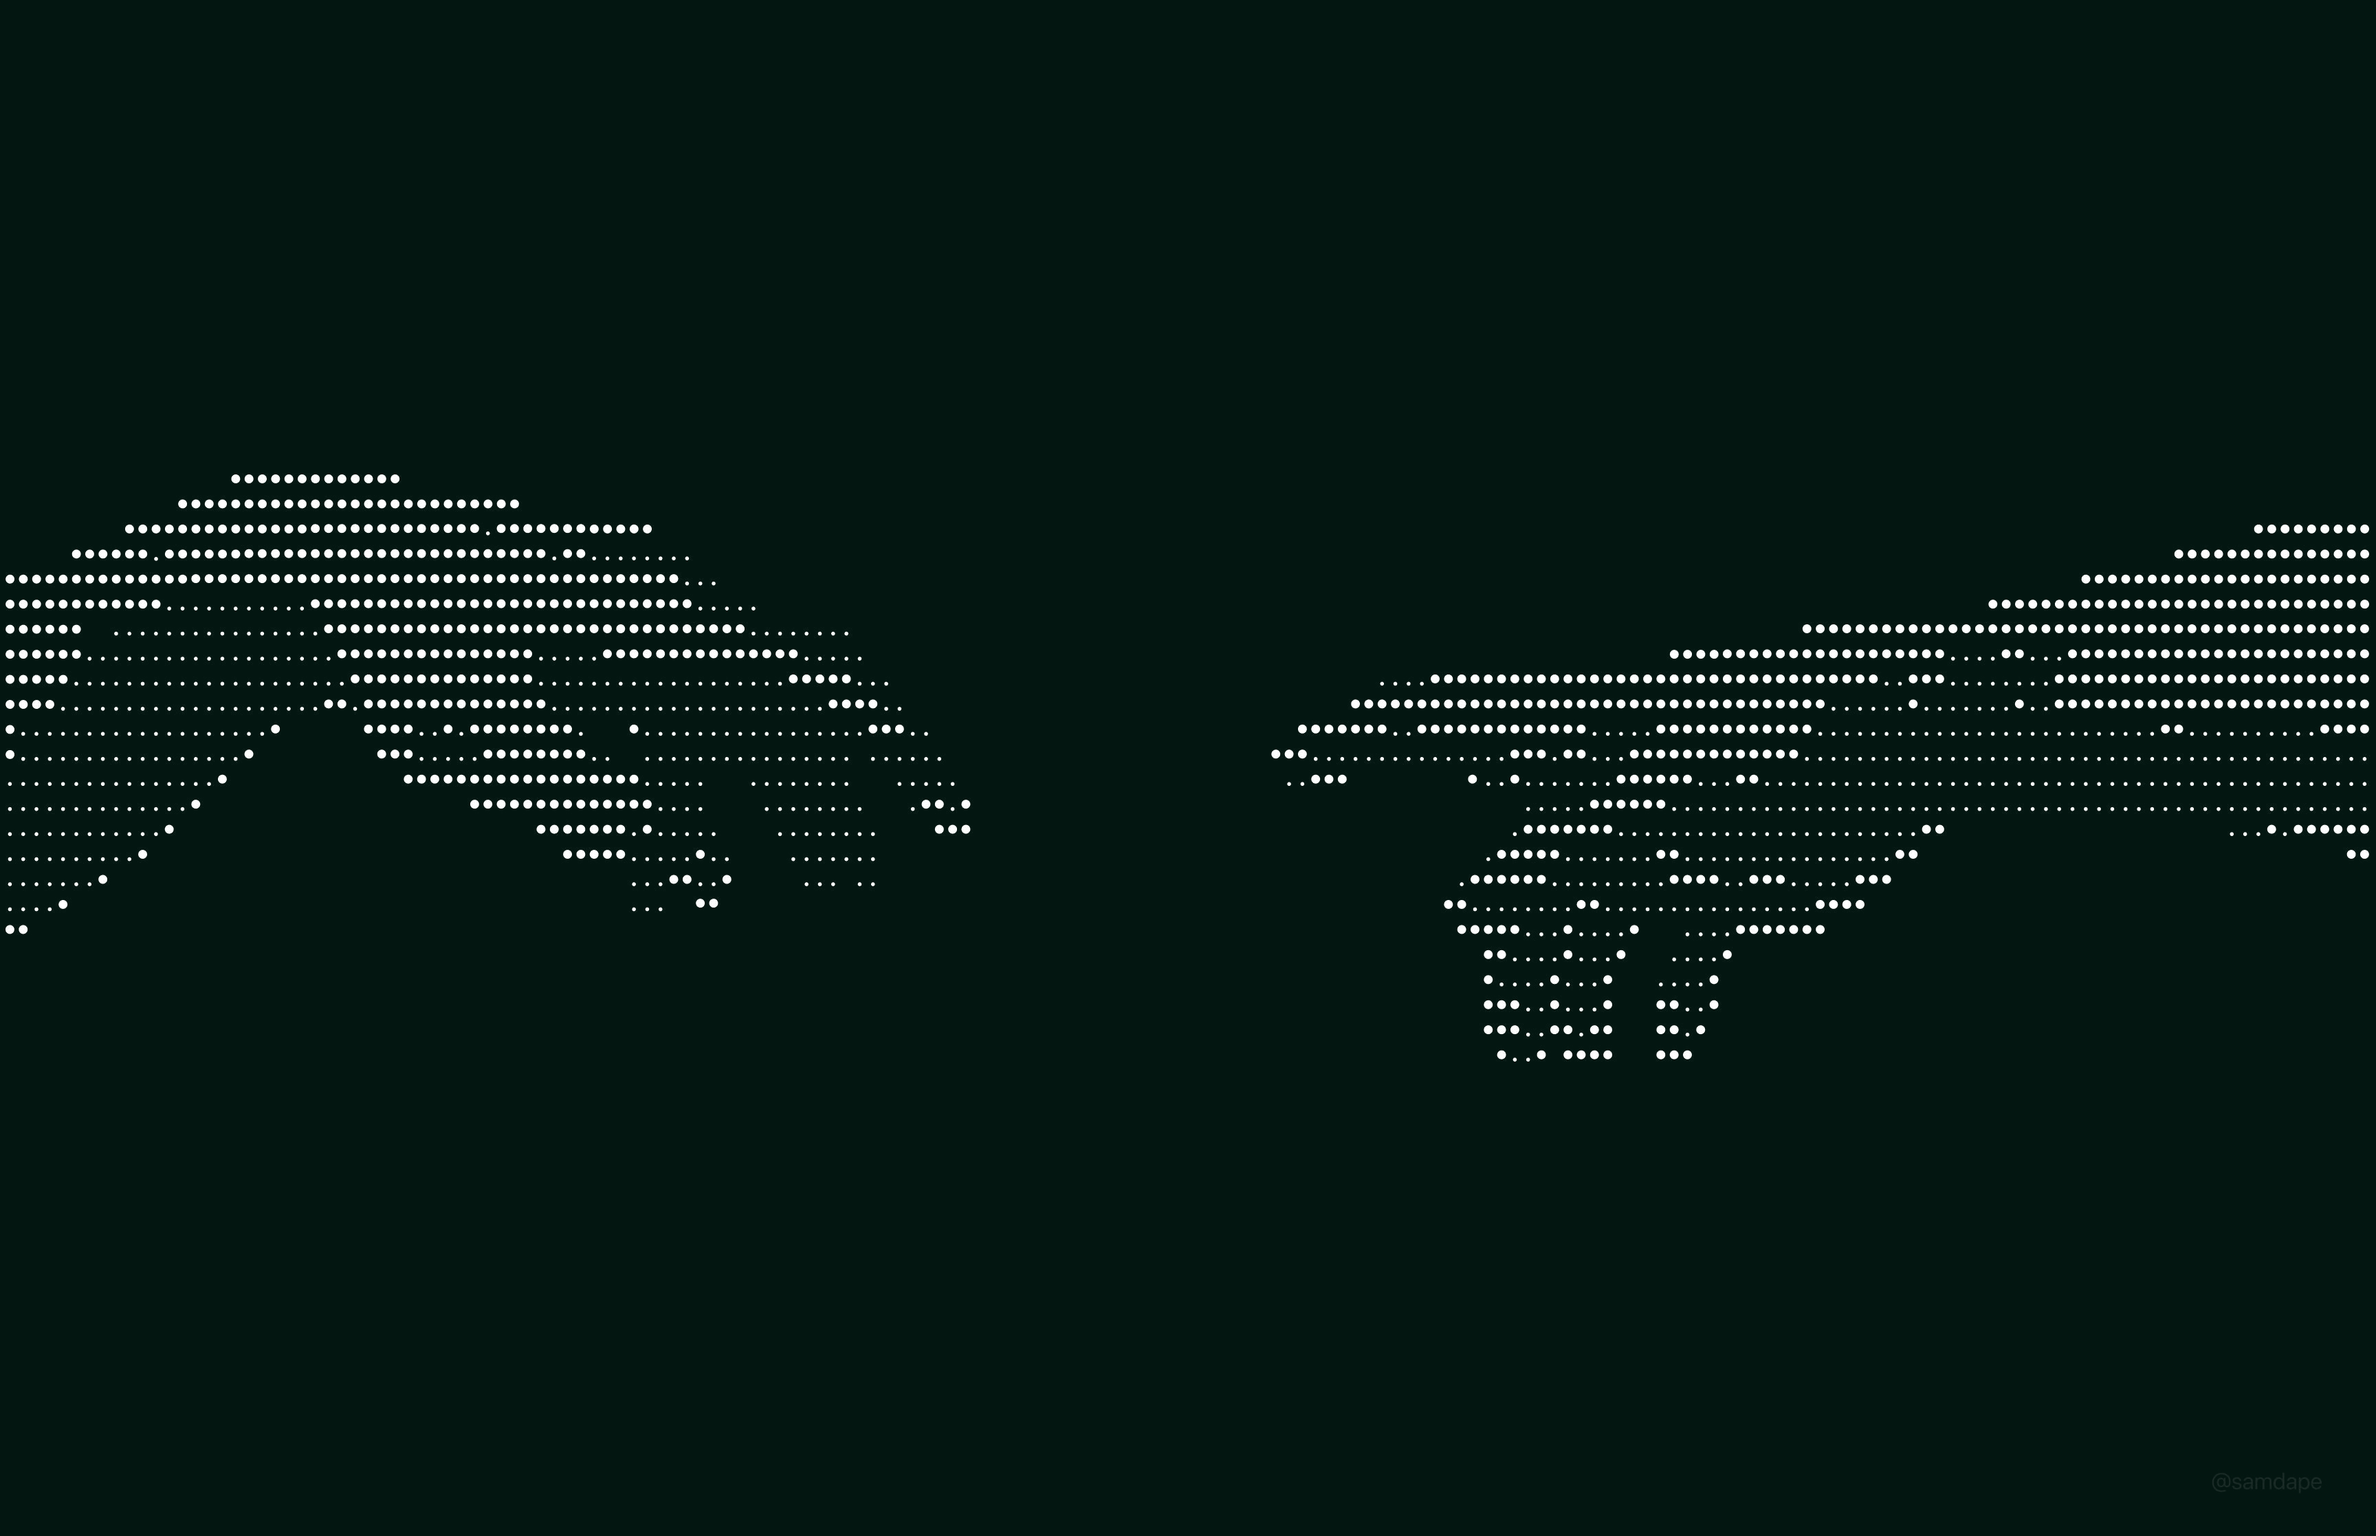
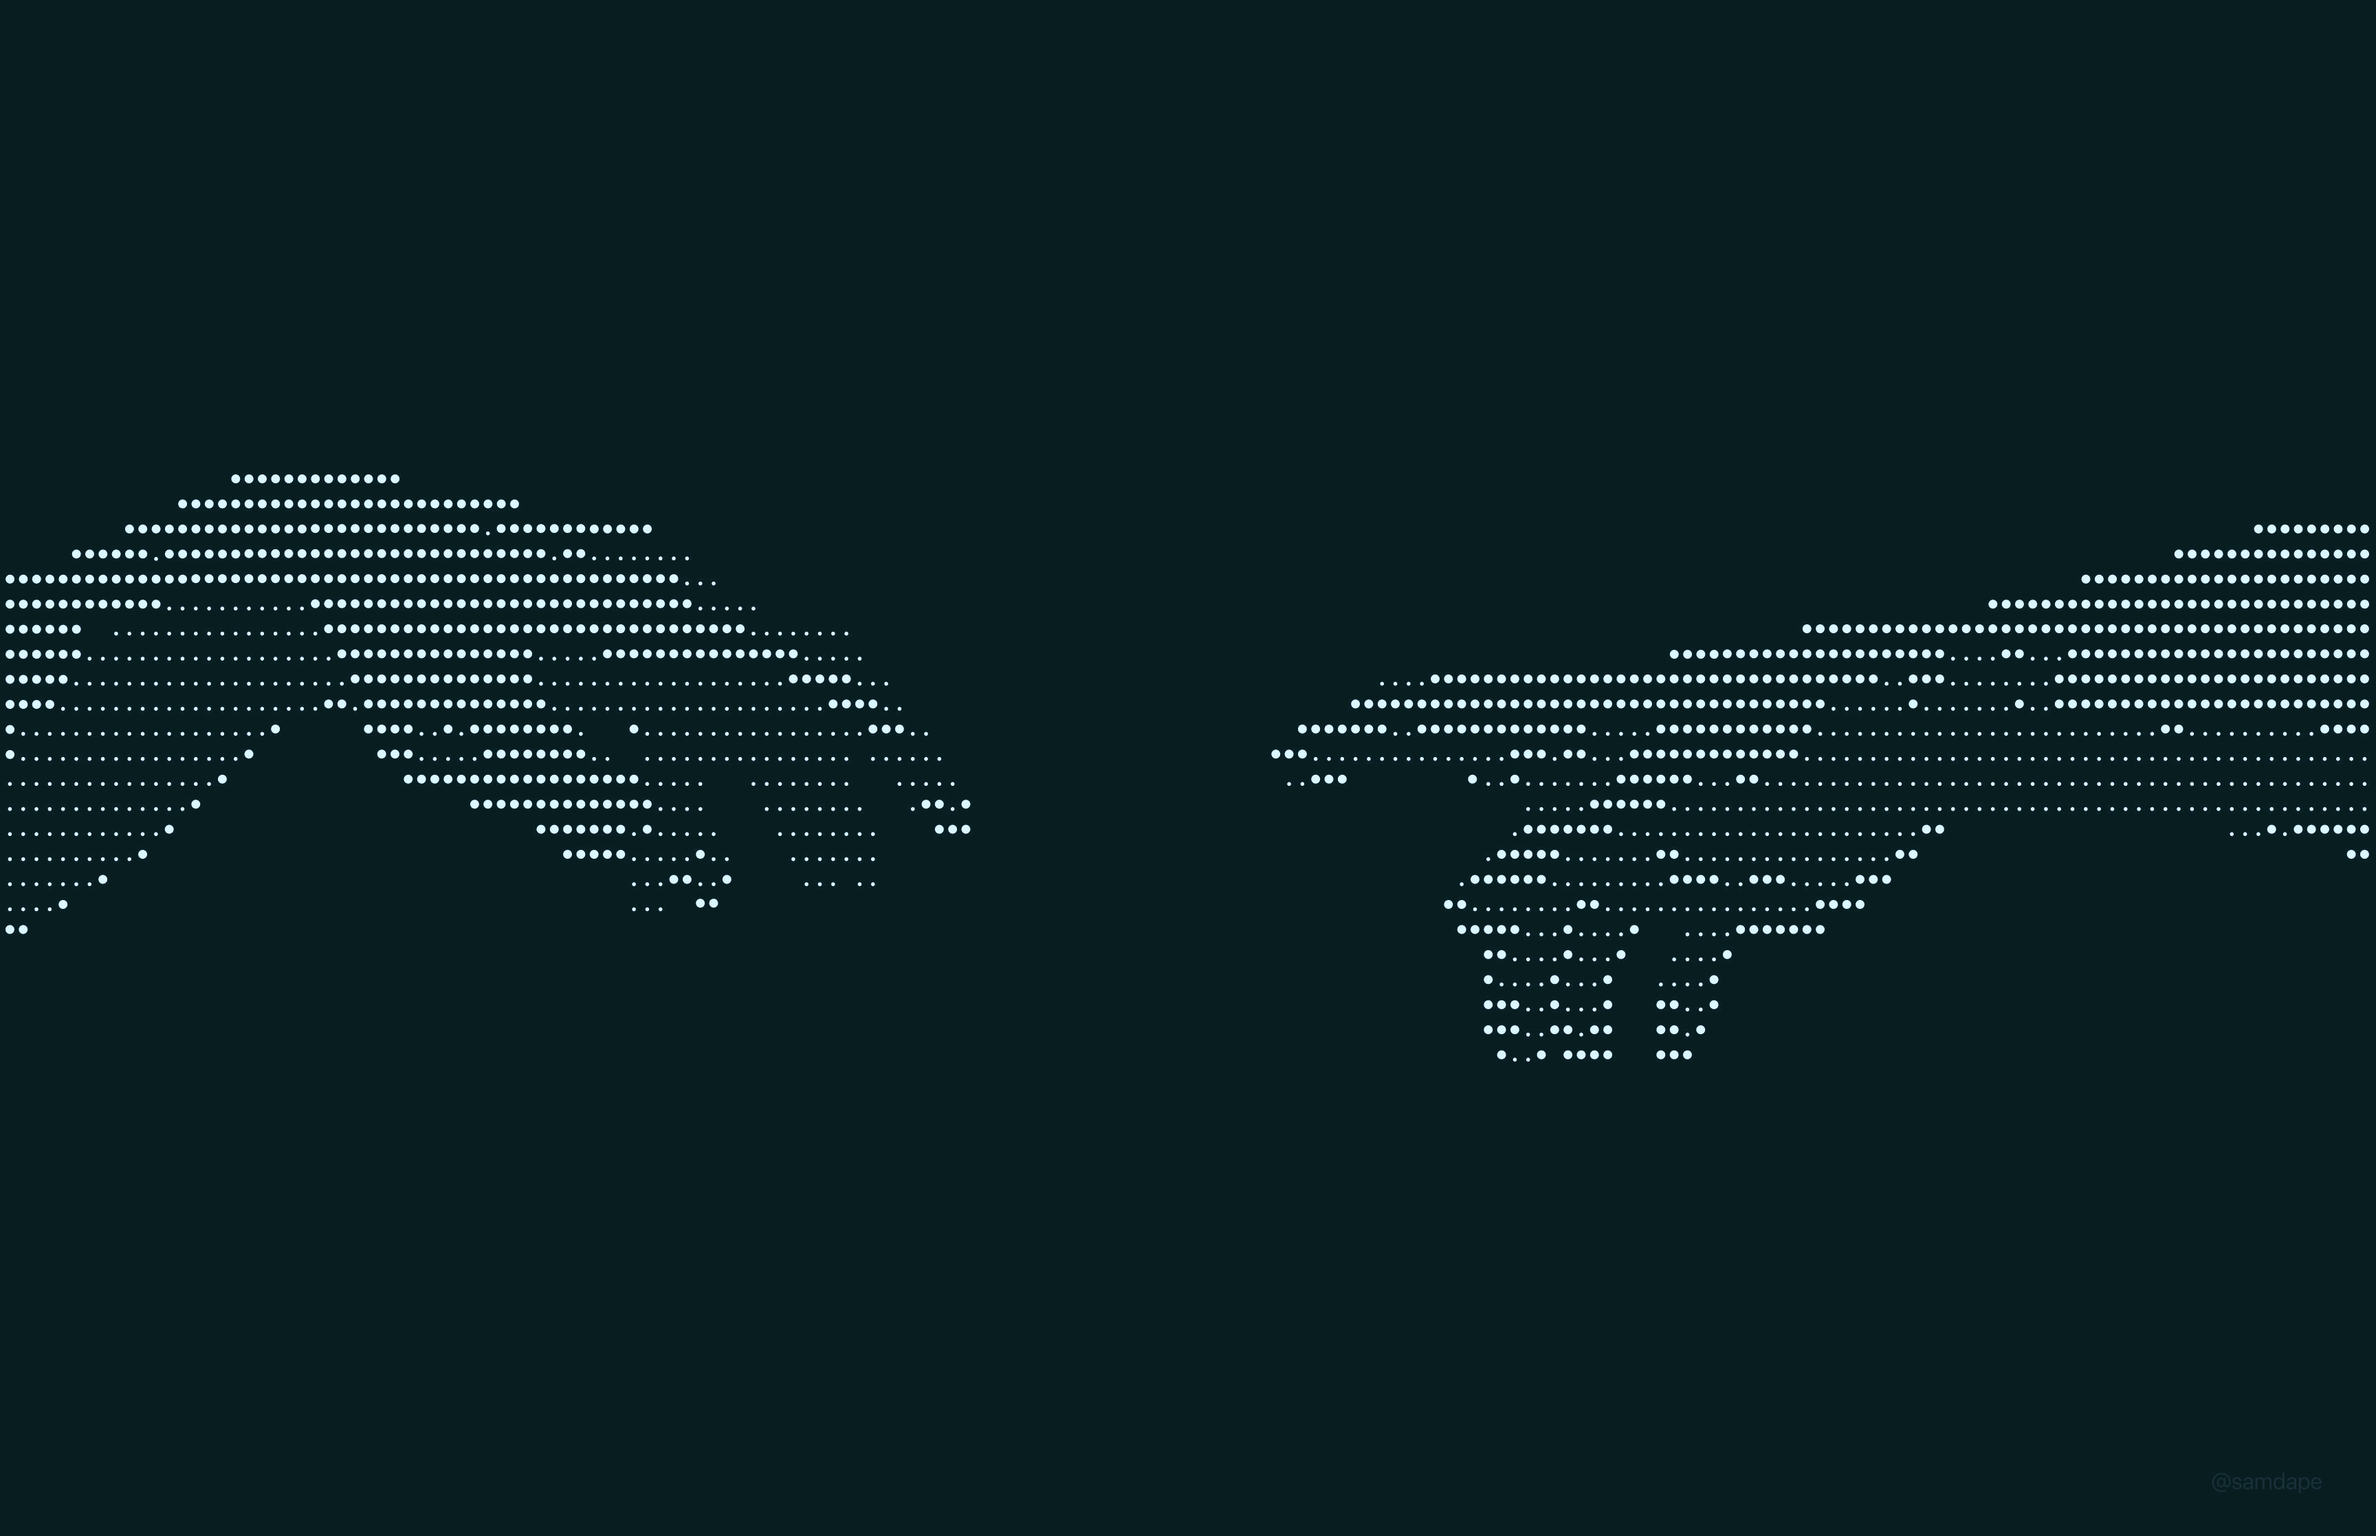
revert: restore the original wallpaper grading

diff --git a/swayosd.css b/swayosd.css
@@ -1,9 +1,9 @@
-@define-color background-color #0b1319;
-@define-color border-color #1d313d;
-@define-color label #d8f7ea;
-@define-color image #d8f7ea;
-@define-color progress #35d6a0;
-@define-color edge-light #94f1cd;
+@define-color background-color #11191c;
+@define-color border-color #223033;
+@define-color label #d8e3e0;
+@define-color image #d8e3e0;
+@define-color progress #33b8a8;
+@define-color edge-light #59d6c5;
 
 /* Cancel out Leenium defaults */
 window:not(:backdrop),
@@ -35,10 +35,10 @@ progressbar {
 
 progressbar trough {
     background: alpha(@border-color, 0.24);
-    box-shadow: inset 0 1px rgba(216, 247, 234, 0.03);
+    box-shadow: inset 0 1px rgba(216, 227, 224, 0.03);
 }
 
 progressbar progress {
     background: linear-gradient(90deg, @progress, @edge-light);
-    box-shadow: 0 0 10px rgba(53, 214, 160, 0.18);
+    box-shadow: 0 0 10px rgba(51, 184, 168, 0.18);
 }

diff --git a/waybar.css b/waybar.css
@@ -1,2 +1,2 @@
-@define-color foreground #d8f7ea;
-@define-color background #060b0f;
+@define-color foreground #d8e3e0;
+@define-color background #0b1113;

diff --git a/README.md b/README.md
@@ -1,6 +1,8 @@
 # Leenium
 
-A dark, teal-accented theme for [Omarchy](https://github.com/basecamp/omarchy). Deep abyss backgrounds with glowing mint highlights and a retro pixel aesthetic.
+A dark, shared-palette theme for [Omarchy](https://github.com/basecamp/omarchy). Deep slate backgrounds with cyan, teal, emerald, and blue accents.
+
+Hosted under `github.com/drunkleen/leenium.omarchy`.
 
 ![Preview](preview.png)
 
@@ -10,18 +12,35 @@ A dark, teal-accented theme for [Omarchy](https://github.com/basecamp/omarchy). 
 
 ## Color Palette
 
+### Primary
+
 | Role | Hex | |
 |---|---|---|
-| Background | `#060b0f` | ![](https://placehold.co/16x16/060b0f/060b0f.png) |
-| Surface | `#0b1319` | ![](https://placehold.co/16x16/0b1319/0b1319.png) |
-| Overlay | `#1d313d` | ![](https://placehold.co/16x16/1d313d/1d313d.png) |
-| Muted | `#8cb7a9` | ![](https://placehold.co/16x16/8cb7a9/8cb7a9.png) |
-| Foreground | `#d8f7ea` | ![](https://placehold.co/16x16/d8f7ea/d8f7ea.png) |
-| Accent (Teal) | `#35d6a0` | ![](https://placehold.co/16x16/35d6a0/35d6a0.png) |
-| Cyan | `#94f1cd` | ![](https://placehold.co/16x16/94f1cd/94f1cd.png) |
-| Blue | `#376781` | ![](https://placehold.co/16x16/376781/376781.png) |
-| Yellow | `#ffd479` | ![](https://placehold.co/16x16/ffd479/ffd479.png) |
-| Red | `#ff5f56` | ![](https://placehold.co/16x16/ff5f56/ff5f56.png) |
+| Background | `#0b1113` | ![](https://placehold.co/16x16/0b1113/0b1113.png) |
+| Surface | `#11191c` | ![](https://placehold.co/16x16/11191c/11191c.png) |
+| Overlay | `#182326` | ![](https://placehold.co/16x16/182326/182326.png) |
+| Muted | `#718688` | ![](https://placehold.co/16x16/718688/718688.png) |
+| Foreground | `#d8e3e0` | ![](https://placehold.co/16x16/d8e3e0/d8e3e0.png) |
+| Accent (Teal) | `#33b8a8` | ![](https://placehold.co/16x16/33b8a8/33b8a8.png) |
+| Cyan | `#59d6c5` | ![](https://placehold.co/16x16/59d6c5/59d6c5.png) |
+| Blue | `#5e9bff` | ![](https://placehold.co/16x16/5e9bff/5e9bff.png) |
+| Yellow | `#d9c76b` | ![](https://placehold.co/16x16/d9c76b/d9c76b.png) |
+| Red | `#e16f73` | ![](https://placehold.co/16x16/e16f73/e16f73.png) |
+
+### Secondary
+
+| Role | Hex | |
+|---|---|---|
+| Void | `#020405` | ![](https://placehold.co/16x16/020405/020405.png) |
+| Ink | `#0e1518` | ![](https://placehold.co/16x16/0e1518/0e1518.png) |
+| Shell | `#141e21` | ![](https://placehold.co/16x16/141e21/141e21.png) |
+| Line | `#223033` | ![](https://placehold.co/16x16/223033/223033.png) |
+| Fog | `#a4b4b2` | ![](https://placehold.co/16x16/a4b4b2/a4b4b2.png) |
+| Mint Glow | `#4dba7a` | ![](https://placehold.co/16x16/4dba7a/4dba7a.png) |
+| Mint Mist | `#5ccbbb` | ![](https://placehold.co/16x16/5ccbbb/5ccbbb.png) |
+| Aqua | `#71e4d8` | ![](https://placehold.co/16x16/71e4d8/71e4d8.png) |
+| Amber | `#d9c76b` | ![](https://placehold.co/16x16/d9c76b/d9c76b.png) |
+| Coral | `#e16f73` | ![](https://placehold.co/16x16/e16f73/e16f73.png) |
 
 ---
 
